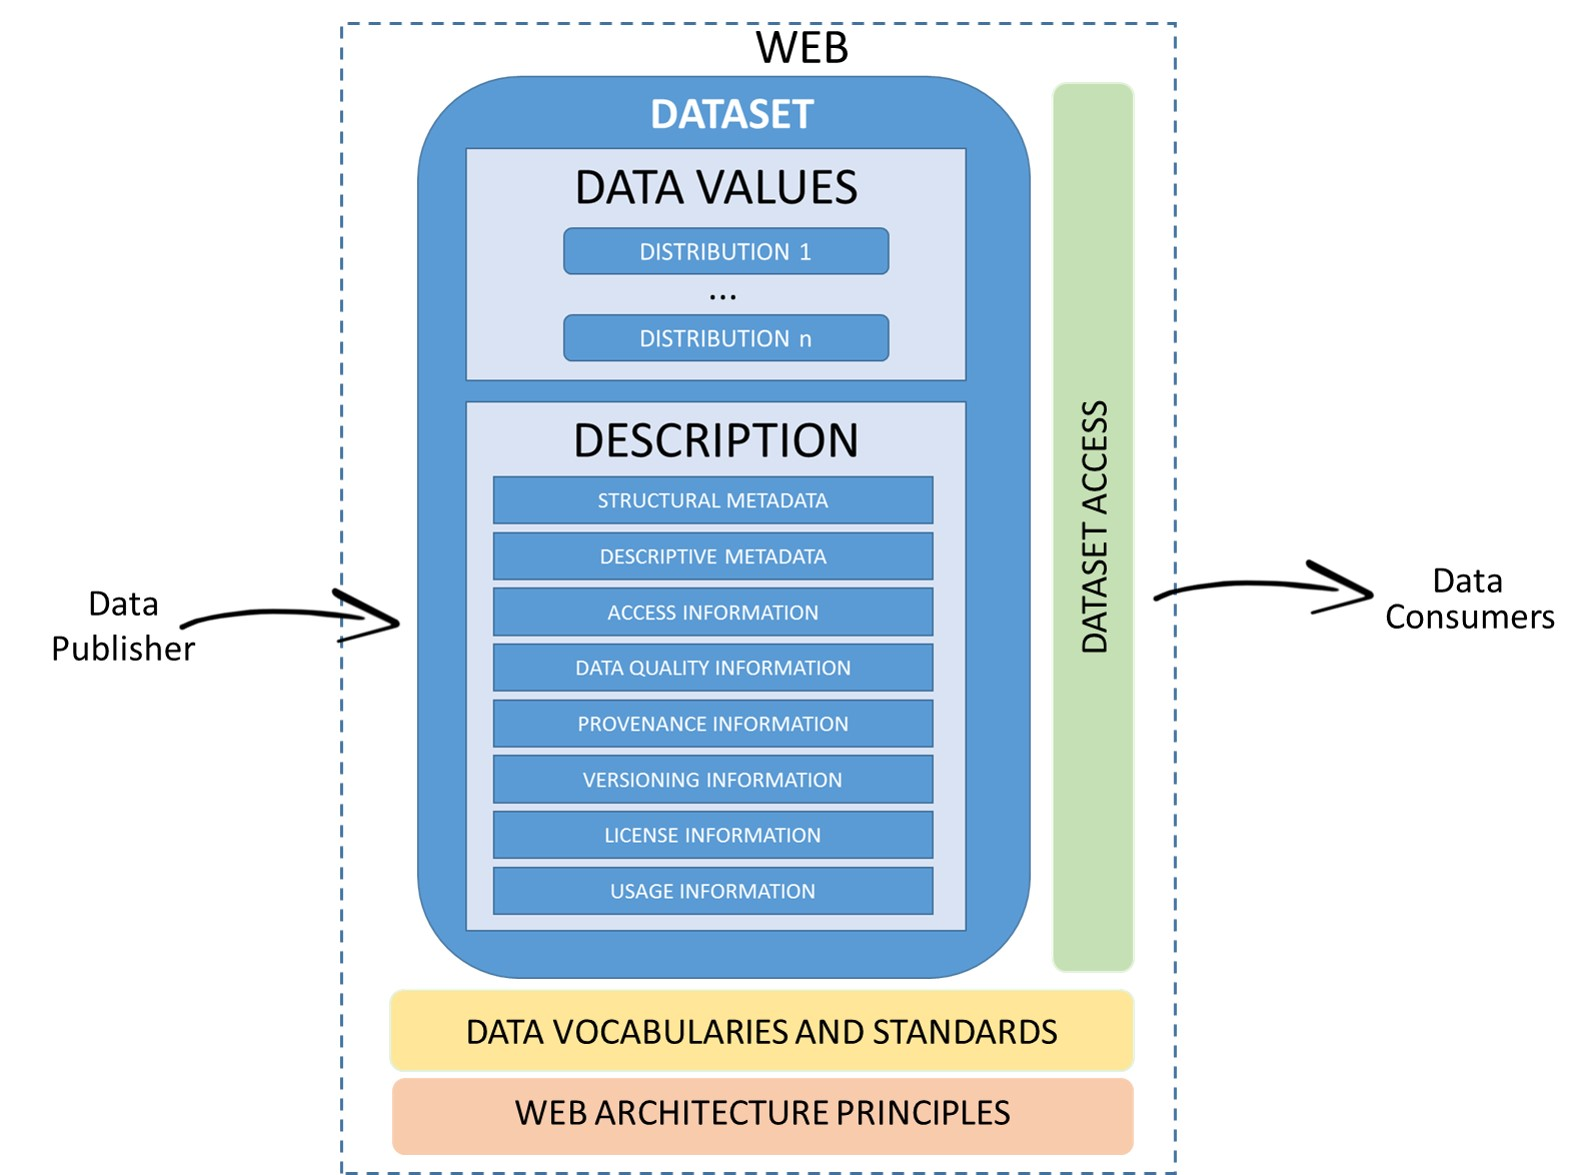
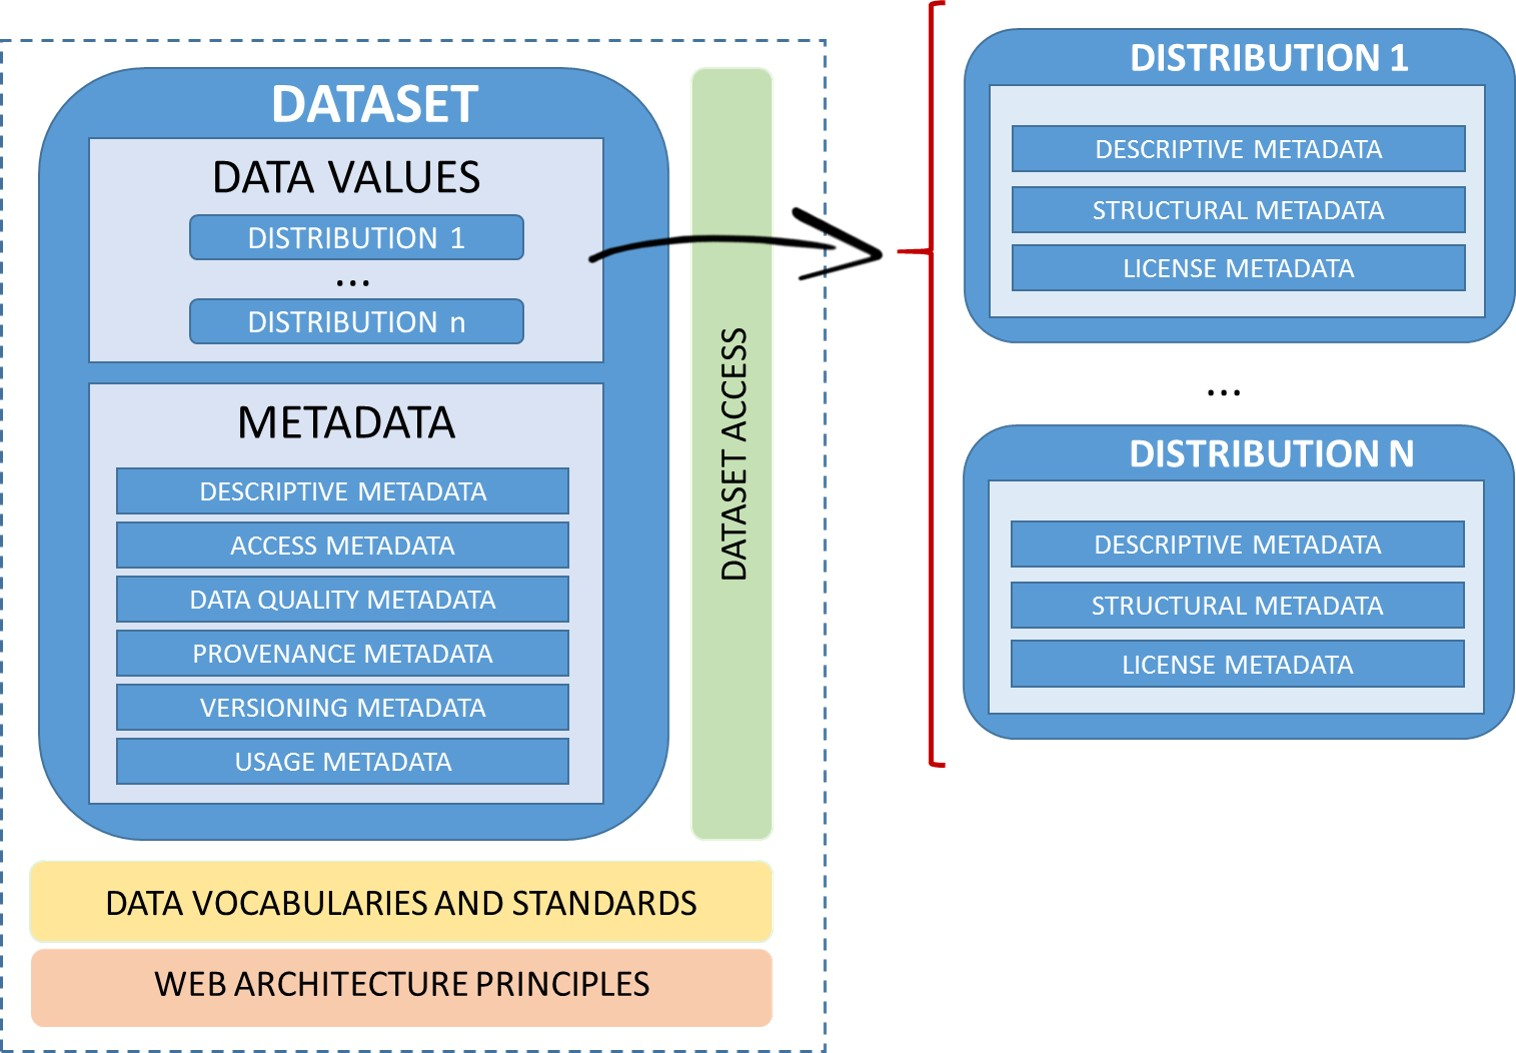
Updating context section

diff --git a/bp.html b/bp.html
@@ -259,17 +259,17 @@ table#uripatternstable caption {
         resources. A link may be defined as a relationship between two resources
         when one resource refers to the other resource by means of a URI. </p>
       <p>The following diagram illustrates the dataset composition (data values
-        and description) together with other components related to the dataset
+        and metadata) together with other components related to the dataset
         publication and usage. Data values correspond to the data itself and may
         be available in one or more distributions, which should be defined by
-        the publisher considering data consumer's expectations. The Description
+        the publisher considering data consumer's expectations. The Metadata
         component corresponds to the additional information that describes the
-        dataset and helps the manipulation and the reuse of the data.&nbsp; In
+        dataset and dataset distributions, helping the manipulation and the reuse of the data.&nbsp; In
         order to allow an easy access to the dataset and its corresponding
         distributions multiple Dataset Access mechanisms should be available
         such as APIs and bulk download. Finally, to promote the interoperability
         among datasets it is important to adopt Data Vocabularies and
-        Standards&nbsp;. &nbsp; </p>
+        Standards. </p>
       <img src="images/context.jpg" alt="Our Context" height="440" width="640">
     </section>
     <section id="challenges" class="informative">
